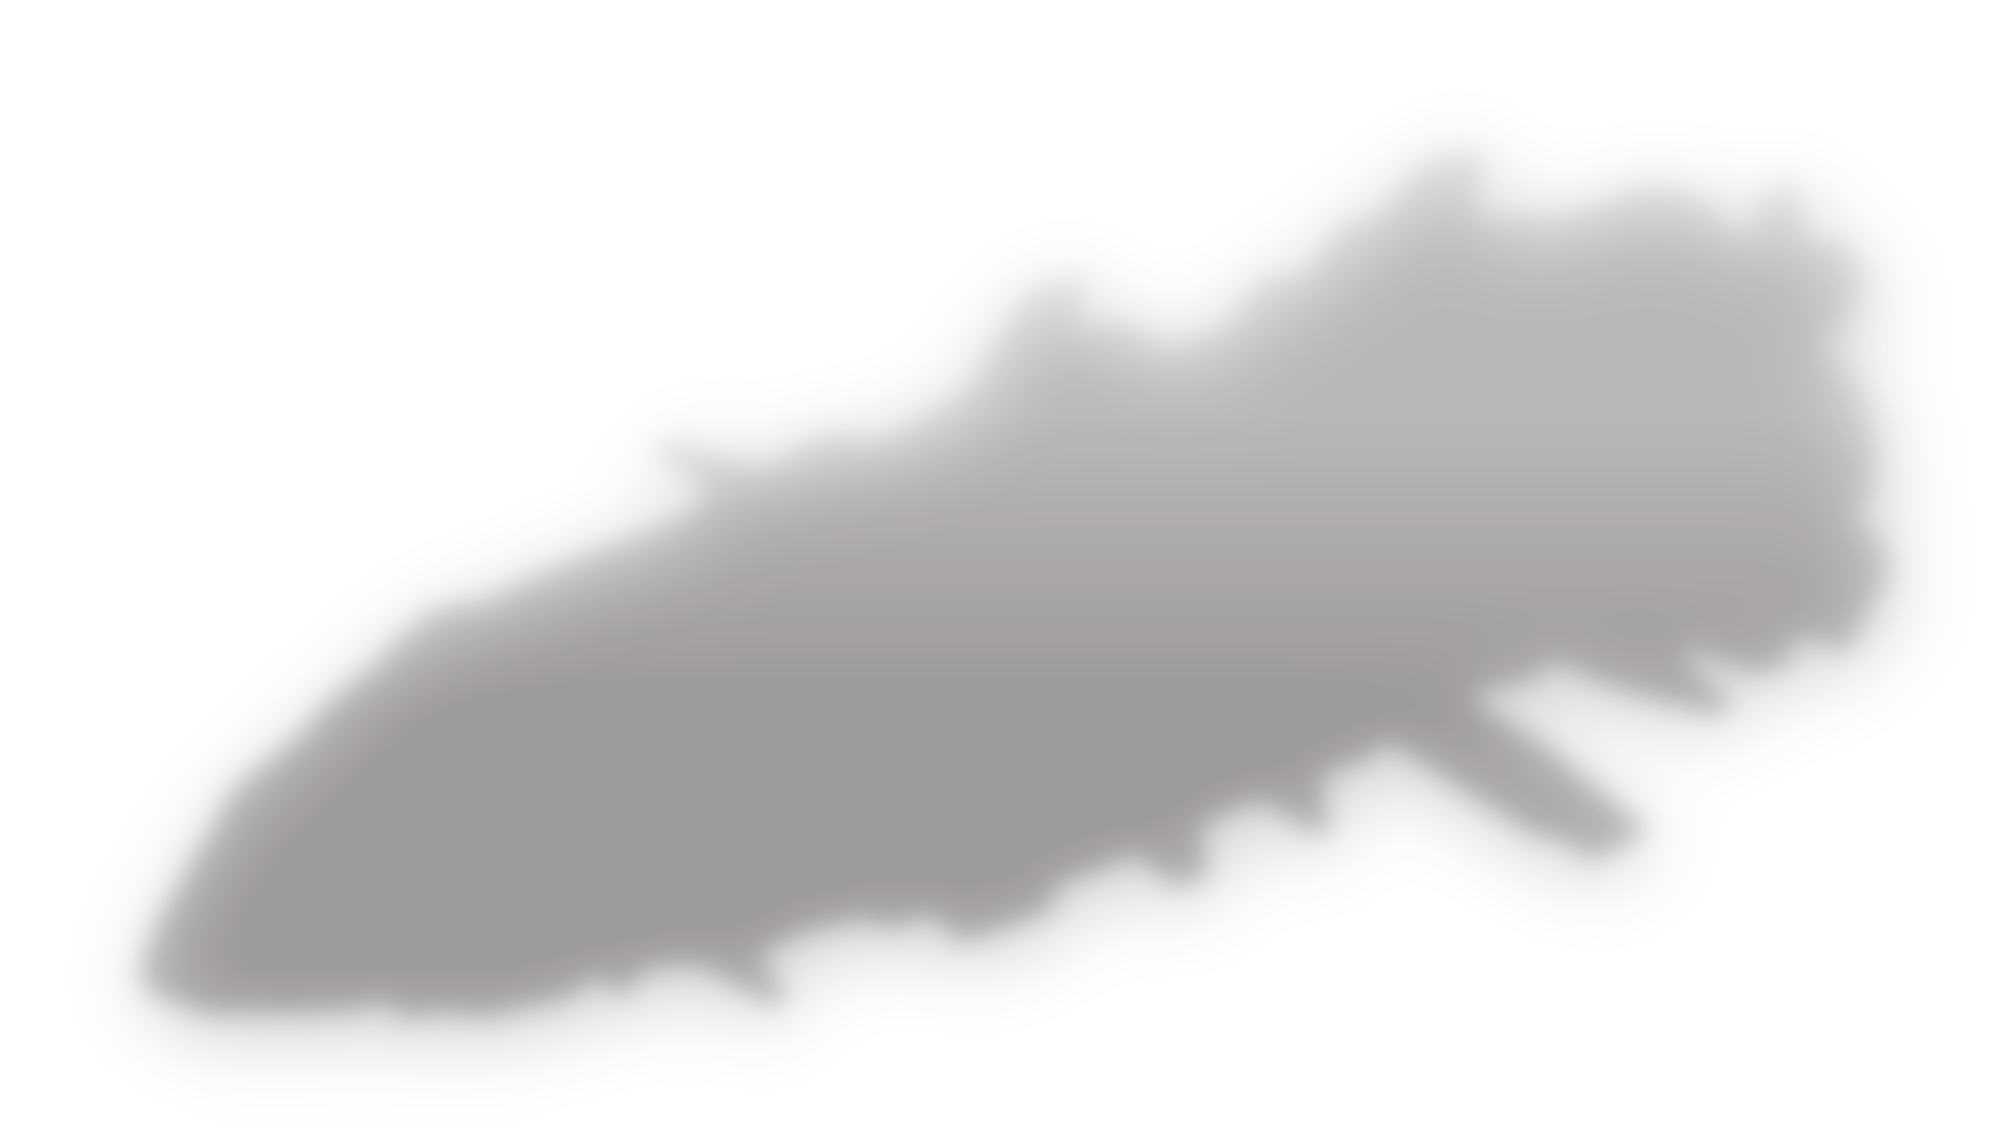
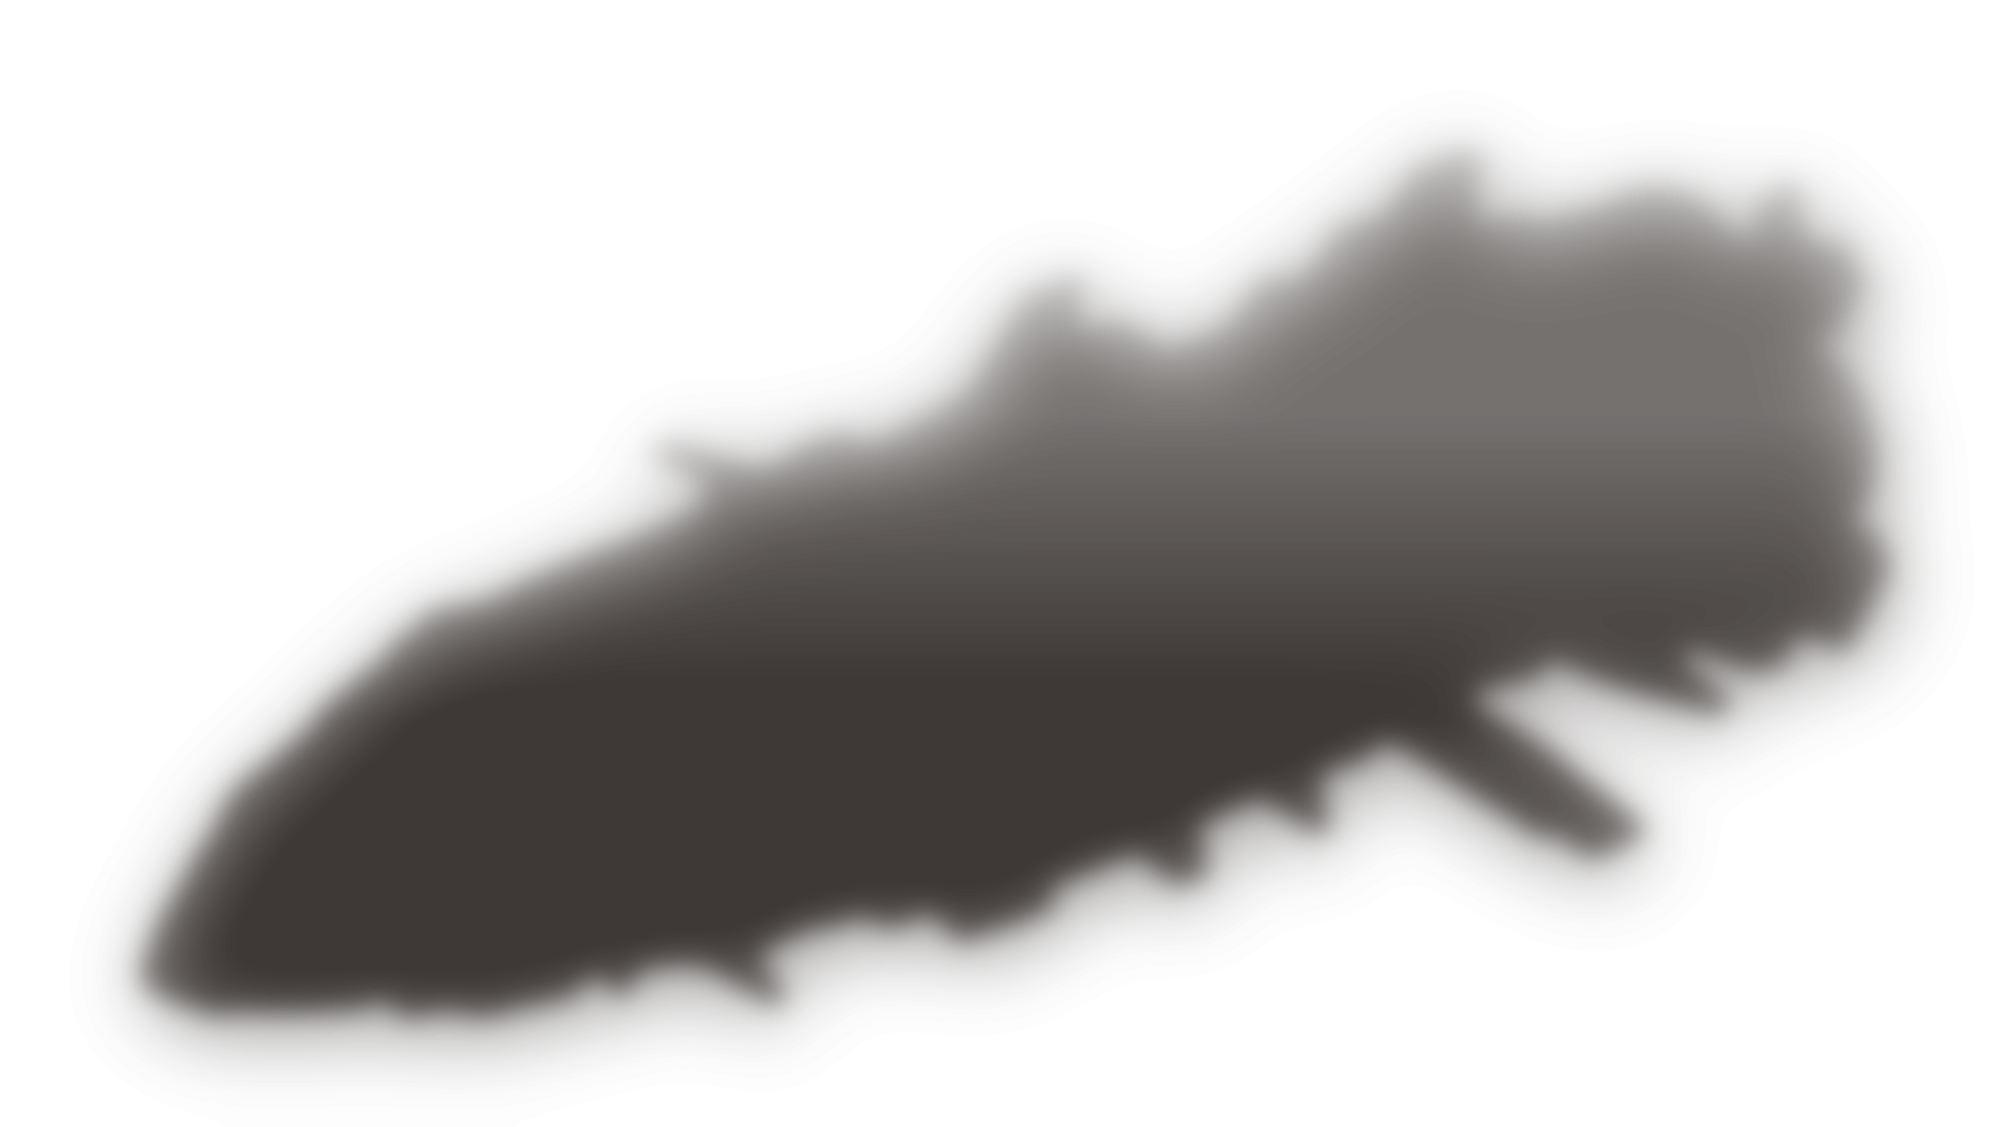
Double contact shadow alpha after owner visual review

diff --git a/README.md b/README.md
@@ -94,9 +94,11 @@ These agent checks are separate from the owner gameplay acceptance below.
 ### Contact shadow integration (feature branch, pending merge)
 
 The owner-supplied [contact-shadow PNG](assets/environment/exterior/crashed_ship_contact_shadow_prototype.png)
-is copied byte-for-byte: 2014 x 1127, 8-bit RGBA, SHA-256
+was initially copied byte-for-byte: 2014 x 1127, 8-bit RGBA, original SHA-256
[1 lines of base64/hex data omitted]
-Its genuine alpha ranges from 0 to 112; visible pixels use RGB `(35,29,26)`
+The corrected asset has SHA-256
[1 lines of base64/hex data omitted]
+Its alpha now ranges from 0 to 224; visible pixels retain RGB `(35,29,26)`
 with feathered opacity, without separate rock, debris or skid-mark artwork.
 The canvas adds 120 pixels per side to the committed 1774 x 887 hull. With
 `centered = false` and scale `(0.70,0.70)`, ContactShadow's ship-local position
@@ -105,15 +107,26 @@ is `(-679,-593)`: the hull's `(-595,-509)` minus `(84,84)`. Source point
 The Sprite2D is a child of CrashedShip at effective Z=-1, below IllustratedHull
 (Z=0) and above illustrated terrain (Z=-11). Existing Y sorting is unchanged.
 
-Static alpha-mask comparison against the committed hull supports registration
+Initial static alpha-mask comparison against the committed hull supported registration
 (approximately 0.858 intersection-over-union at hull alpha >=128 / shadow alpha
 >=32, sampled every four source pixels). The newly supplied canonical ship and
 local `shipv1.png` both match the committed ship byte-for-byte; the earlier
 different-hash attachment is unavailable, so its historical encoding-versus-artwork
 discrepancy cannot be classified. No current silhouette mismatch blocks integration.
 
-This is a visual prototype using the supplied opacity without modulation.
-Strength, feathering and placement require owner-controlled in-game review;
+Owner initial graphical playtesting at `91658cee15f0f6ae06bae9db9b8d054435744b9f`
+reported **4/5 PASS**: alignment, terrain blending, hatch visibility and performance
+passed; shadow strength failed as too faint. The correction applies exactly
+`new_alpha = min(255, 2 * original_alpha)` to every pixel, preserving RGB,
+dimensions, transparent pixels, registration and feathering apart from that
+multiplication. Maximum alpha changes from 112 to 224, without clipping.
+All 2,269,778 pixels passed exact RGB/alpha comparison; 1,022,700 fully transparent
+pixels remain transparent. The original PNG is recoverable from that Git commit
+at the same asset path using the original hash above.
+
+This remains a visual prototype without Sprite2D modulation. Owner graphical
+retest of the correction is **pending**; visual acceptance is not claimed.
+The existing feathered extent is unchanged;
 the faint alpha>=1 extent touches the bottom canvas edge. Whole-ship Y sorting
 remains coarse. Static inspection does not establish engine import or graphical
 acceptance. No Godot execution is authorized for this integration. Disturbed earth,
